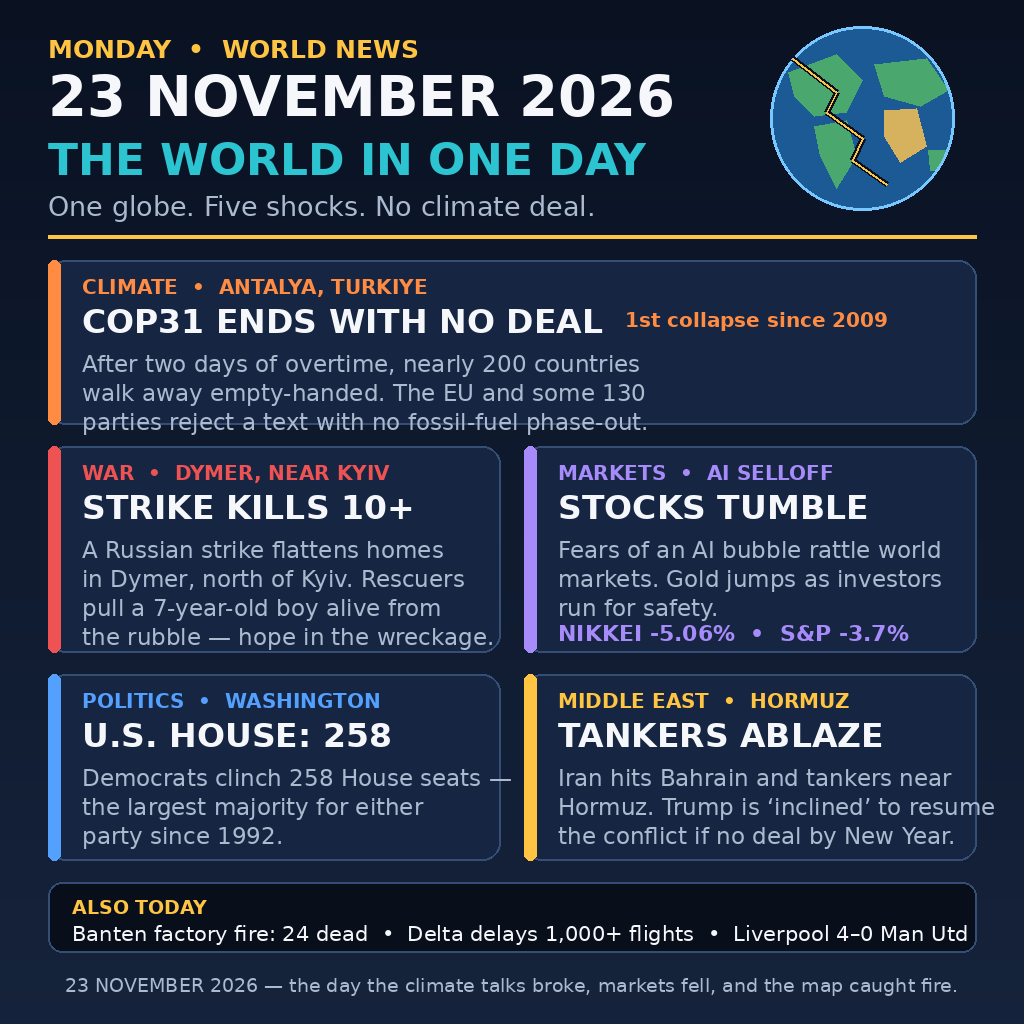
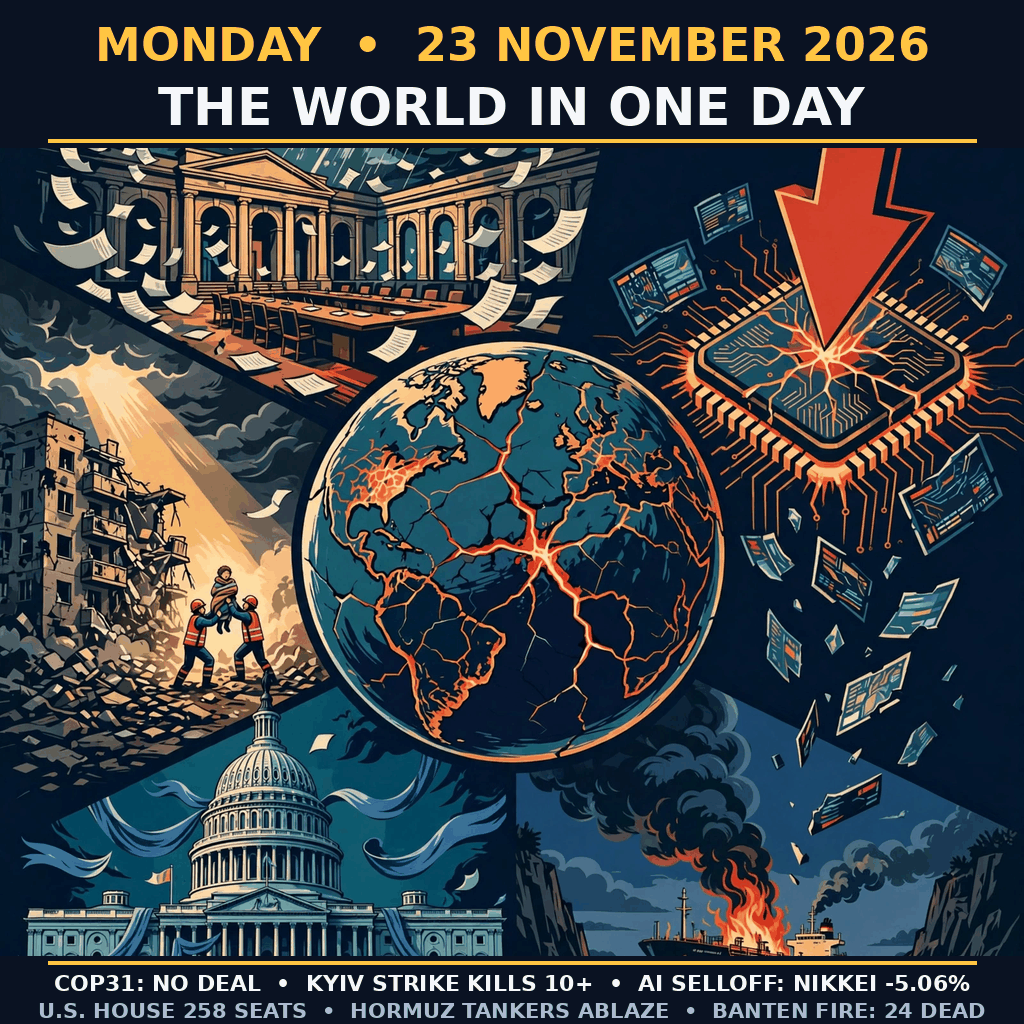
v2: editorial illustration edition of the 23 Nov 2026 world news poster

diff --git a/README.md b/README.md
@@ -39,3 +39,11 @@ bundled `entry.png`, so every run produces byte-identical output.
 ## License
 
 MIT — see `LICENSE`.
+
+## v2 — editorial illustration edition
+
+The current `entry.png` is the v2 artwork: a dramatic editorial illustration —
+a cracked, glowing globe surrounded by the day's five big scenes (the empty
+COP31 hall in Antalya, the Kyiv rescue, the AI selloff arrow smashing a chip,
+the US Capitol after the 258-seat result, and a tanker ablaze at Hormuz) —
+topped with the date masthead and a one-line summary of the day's headlines.
